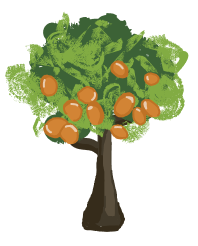
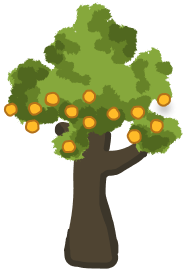
add new sapota png #351

diff --git a/src/game/data/organisms.ts b/src/game/data/organisms.ts
@@ -35,7 +35,7 @@ export const organisms = z.array(OrganismSchema).parse([
     id: "sapota",
     name: "Sapota",
     texture: "sapota_sprite",
-    default_scale: 0.9,
+    default_scale: 1,
     growth_types: ["grow"],
     offsetX: 400,
     offsetY: 0,
@@ -85,4 +85,3 @@ export const organismDataMap = new Map<string, OrganismData>(
 export function getOrganismData(id: string): OrganismData | undefined {
   return organismDataMap.get(id);
 }
-
